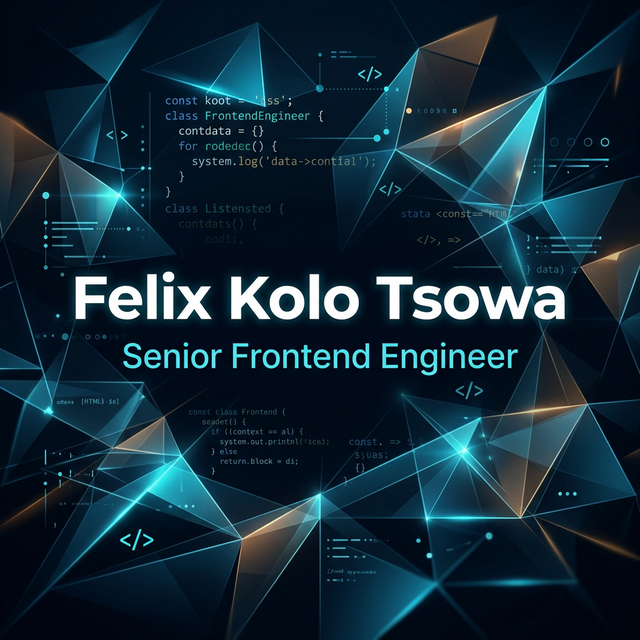
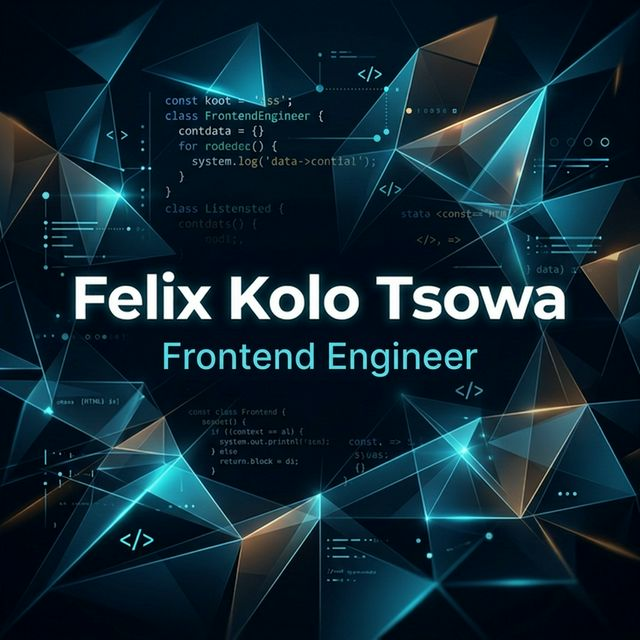
Update portfolio: Regenerated OG image, added Electron.js to skills, adjusted SEO metadata

diff --git a/public/index.html b/public/index.html
@@ -36,11 +36,11 @@
     <meta name="copyright" content="Felix Kolo Tsowa" />
     <meta
       name="description"
-      content="Felix Kolo Tsowa —  Frontend Engineer & Full-Stack Architect. 4+ years building high-performance, scalable web and mobile applications using React, Next.js, and React Native. Specialist in FinTech and SaaS."
+      content="Felix Kolo Tsowa — Frontend Engineer. 4+ years building high-performance, scalable web, desktop, and mobile applications using React, Next.js, Electron.js, and React Native. Specialist in FinTech and SaaS."
     />
     <meta
       name="keywords"
-      content="Felix Kolo Tsowa,  Frontend Engineer, Full Stack Architect, React Expert, Next.js Developer, React Native Specialist, TypeScript, Node.js, Web Performance, UI/UX, SaaS Architecture, FinTech Solutions"
+      content="Felix Kolo Tsowa, Frontend Engineer, React Expert, Next.js Developer, React Native Specialist, Electron.js, TypeScript, Node.js, Web Performance, UI/UX, SaaS Architecture, FinTech Solutions"
     />
     <link
       href="https://fonts.googleapis.com/css2?family=Plus+Jakarta+Sans:wght@300;400;500;600;700;800&display=swap"
@@ -82,11 +82,11 @@
     <meta property="og:url" content="https://fkt-portfolio.vercel.app/" />
     <meta
       property="og:title"
-      content="Felix Kolo Tsowa |  Frontend Engineer & Full-Stack Architect"
+      content="Felix Kolo Tsowa | Frontend Engineer"
     />
     <meta
       property="og:description"
-      content="Building high-performance digital ecosystems with React, Next.js, and React Native. Explore the portfolio of a  Frontend Architect."
+      content="Building high-performance digital ecosystems with React, Next.js, Electron.js, and React Native. Explore the portfolio of a Frontend Engineer."
     />
     <meta
       property="og:image"
@@ -102,11 +102,11 @@
     <meta name="twitter:url" content="https://fkt-portfolio.vercel.app/" />
     <meta
       name="twitter:title"
-      content="Felix Kolo Tsowa |  Frontend Architect"
+      content="Felix Kolo Tsowa | Frontend Engineer"
     />
     <meta
       name="twitter:description"
-      content=" Frontend Engineer architecting scalable web & mobile solutions globally."
+      content="Frontend Engineer architecting scalable web & mobile solutions globally."
     />
     <meta
       name="twitter:image"
@@ -118,11 +118,11 @@
     <!-- LinkedIn & Other Platforms -->
     <meta
       property="og:image:alt"
-      content="Felix Kolo Tsowa -  Software Engineer"
+      content="Felix Kolo Tsowa - Frontend Engineer"
     />
     <meta
       name="linkedin:title"
-      content="Felix Kolo Tsowa |  Frontend Engineer"
+      content="Felix Kolo Tsowa | Frontend Engineer"
     />
     <meta name="apple-mobile-web-app-title" content="Felix Tsowa" />
 
@@ -136,8 +136,8 @@
             "@id": "https://fkt-portfolio.vercel.app/#person",
             "name": "Felix Kolo Tsowa",
             "alternateName": ["Felix Tsowa", "Tsowa Kolo Felix"],
-            "jobTitle": " Frontend Engineer",
-            "description": " Frontend Engineer with 4+ years of experience building scalable web and mobile applications specializing in React, Next.js, and React Native.",
+            "jobTitle": "Frontend Engineer",
+            "description": "Frontend Engineer with 4+ years of experience building scalable web, desktop, and mobile applications specializing in React, Next.js, React Native, and Electron.js.",
             "image": {
               "@type": "ImageObject",
               "url": "https://fkt-portfolio.vercel.app/image.jpg",
@@ -172,7 +172,7 @@
             ],
             "worksFor": {
               "@type": "Organization",
-              "name": "Freelance  Software Engineer"
+              "name": "Freelance Frontend Engineer"
             },
             "alumniOf": {
               "@type": "EducationalOrganization",
@@ -202,7 +202,7 @@
                 "name": "Who is Felix Kolo Tsowa?",
                 "acceptedAnswer": {
                   "@type": "Answer",
-                  "text": "Felix Kolo Tsowa is a  Frontend Engineer and Full-Stack Developer with over 4 years of experience in building scalable web and mobile applications for global clients."
+                  "text": "Felix Kolo Tsowa is a Frontend Engineer with over 4 years of experience in building scalable web and mobile applications for global clients."
                 }
               },
               {
@@ -321,8 +321,8 @@
           },
           {
             "@type": "ProfessionalService",
-            "name": " Software Engineering Services",
-            "description": "Premium full-stack development, mobile app architecture, and technical consulting specializing in React, Next.js, and React Native.",
+            "name": "Frontend Engineering Services",
+            "description": "Premium frontend development, modern app architecture, and technical consulting specializing in React, Next.js, Electron.js, and React Native.",
             "url": "https://fkt-portfolio.vercel.app/#contact",
             "address": { "@id": "https://fkt-portfolio.vercel.app/#person" },
             "priceRange": "$$$",

diff --git a/src/components/Services.tsx b/src/components/Services.tsx
@@ -1,30 +1,54 @@
-import React from "react";
-import { FaSearch, FaRocket, FaCode, FaServer } from "react-icons/fa";
+import {
+  FaCode,
+  FaDesktop,
+  FaMobileAlt,
+  FaRocket,
+  FaSearch,
+  FaUniversalAccess,
+} from "react-icons/fa";
 
 const services = [
   {
-    title: "SEO Optimization",
-    description: "Professional-grade metadata, JSON-LD, and advanced search engine ranking strategies to make your brand stand out.",
-    icon: <FaSearch className="text-4xl text-blue-500" />,
-    color: "shadow-blue-500/50",
-  },
-  {
-    title: "Website Optimization",
-    description: "High-performance tuning, image optimization, and best-in-class loading speeds for a seamless user experience.",
-    icon: <FaRocket className="text-4xl text-orange-500" />,
-    color: "shadow-orange-500/50",
-  },
-  {
-    title: "Frontend Development",
-    description: "Modern, responsive, and stunning UI/UX designs using React, Next.js, and premium glassmorphic aesthetics.",
+    title: "Frontend Web Development",
+    description:
+      "Modern, responsive, and stunning UI/UX designs using React, Next.js, Vue, and premium glassmorphic aesthetics.",
     icon: <FaCode className="text-4xl text-purple-500" />,
     color: "shadow-purple-500/50",
   },
   {
-    title: "Backend Development",
-    description: "Scalable APIs, secure database management, and robust server-side logic to power your complex applications.",
-    icon: <FaServer className="text-4xl text-green-500" />,
-    color: "shadow-green-500/50",
+    title: "Desktop Application Development",
+    description:
+      "Cross-platform desktop applications for macOS, Windows, and Linux using Electron.js and other modern technologies.",
+    icon: <FaDesktop className="text-4xl text-blue-400" />,
+    color: "shadow-blue-400/50",
+  },
+  {
+    title: "Mobile App Development",
+    description:
+      "High-performance, native-feeling mobile applications for iOS and Android using React Native/Expo.",
+    icon: <FaMobileAlt className="text-4xl text-green-400" />,
+    color: "shadow-green-400/50",
+  },
+  {
+    title: "Performance & Website Optimization",
+    description:
+      "High-performance tuning, Core Web Vitals optimization, and best-in-class loading speeds for seamless user experiences.",
+    icon: <FaRocket className="text-4xl text-orange-500" />,
+    color: "shadow-orange-500/50",
+  },
+  {
+    title: "SEO Optimization & JSON-LD",
+    description:
+      "Professional-grade metadata, programmatic SEO, and advanced search engine ranking strategies.",
+    icon: <FaSearch className="text-4xl text-blue-600" />,
+    color: "shadow-blue-600/50",
+  },
+  {
+    title: "Web Accessibility (a11y)",
+    description:
+      "Ensuring applications meet WCAG standards, providing inclusive experiences for all users with screen readers and keyboard navigation.",
+    icon: <FaUniversalAccess className="text-4xl text-yellow-500" />,
+    color: "shadow-yellow-500/50",
   },
 ];
 
@@ -39,17 +63,21 @@ const Services = () => {
           <p className="text-4xl font-bold inline border-b-4 border-gray-500">
             Services
           </p>
-          <p className="py-6">These are the premium services I offer to help your business grow</p>
+          <p className="py-6">
+            These are the premium services I offer to help your business grow
+          </p>
         </div>
 
-        <div className="grid grid-cols-1 sm:grid-cols-2 lg:grid-cols-4 gap-8 px-4 sm:px-0">
+        <div className="grid grid-cols-1 sm:grid-cols-2 lg:grid-cols-3 gap-8 px-4 sm:px-0">
           {services.map(({ title, description, icon, color }, index) => (
             <div
               key={index}
               className={`flex flex-col items-center justify-between p-6 rounded-2xl bg-white/10 backdrop-blur-md border border-white/20 shadow-lg hover:scale-105 duration-300 ${color}`}
             >
               <div className="mb-4">{icon}</div>
-              <h3 className="text-xl font-semibold mb-2 text-center">{title}</h3>
+              <h3 className="text-xl font-semibold mb-2 text-center">
+                {title}
+              </h3>
               <p className="text-sm font-light text-center text-gray-300">
                 {description}
               </p>

diff --git a/src/components/About.tsx b/src/components/About.tsx
@@ -15,14 +15,14 @@ const About = () => {
       id: 1,
       title: "Frontend Development",
       description:
-        "Crafting responsive, pixel-perfect web interfaces using React, Next.js, and modern CSS frameworks like Tailwind.",
+        "Crafting responsive, pixel-perfect web interfaces using React, Next.js, Vue, and modern CSS frameworks like Tailwind.",
       icon: <FaCode className="text-3xl text-primary-500" />,
     },
     {
       id: 2,
       title: "Mobile App Development",
       description:
-        "Building cross-platform mobile applications for iOS and Android using React Native with native performance.",
+        "Building cross-platform mobile applications for iOS and Android using React Native, E with native performance.",
       icon: <FaMobileAlt className="text-3xl text-accent-500" />,
     },
     {
@@ -118,6 +118,7 @@ const About = () => {
                   <span className="text-accent-600 dark:text-accent-400">
                     Real Estate
                   </span>
+                  ,{" "}
                   <span className="text-accent-600 dark:text-accent-400">
                     Logistics
                   </span>
@@ -157,7 +158,7 @@ const About = () => {
               business challenges into sleek, high-performance software. My
               expertise spans across{" "}
               <span className="text-slate-900 dark:text-white font-bold underline decoration-primary-500 decoration-4 underline-offset-4">
-                React, Next.js, and React Native
+                React, Next.js, Vue, React Native/Expo, and Electron.js
               </span>
               , delivering scalable solutions that drive real business value.
             </motion.p>

diff --git a/src/AllPortfolioDetails/AllPortfolios.ts b/src/AllPortfolioDetails/AllPortfolios.ts
@@ -3,6 +3,8 @@ import Autozard from "../assets/portfolio/Autozard.png";
 import callingApp from "../assets/portfolio/calling-app.png";
 import contactlist from "../assets/portfolio/contactlist.png";
 import farmeasy from "../assets/portfolio/farmeasy.png";
+import fktCallsNew from "../assets/portfolio/fkt-calls.png";
+import fktCryptoPulse from "../assets/portfolio/fkt-cryto-pulse.png";
 import geek from "../assets/portfolio/geek.png";
 import houseacq from "../assets/portfolio/houseacq.png";
 import investyield from "../assets/portfolio/investyield.png";
@@ -18,8 +20,6 @@ import politicsthreadadmin from "../assets/portfolio/politicsthreaadmin.png";
 import politicthread from "../assets/portfolio/politicsthread.png";
 import risevest from "../assets/portfolio/risevest.png";
 import sugarcosmetic from "../assets/portfolio/sugarcosmetic.png";
-import fktCryptoPulse from "../assets/portfolio/fkt-cryto-pulse.png";
-import fktCallsNew from "../assets/portfolio/fkt-calls.png";
 // New portfolio images
 import studio187 from "../assets/portfolio/187studio.png";
 import starnetacademy from "../assets/portfolio/academy.png";
@@ -438,7 +438,7 @@ export const allPortfolios: PortfolioItem[] = [
   {
     id: 87,
     src: favour,
-    link: "https://favour.vercel.app/",
+    link: "http://favourolorunfemi-va-portfolio.vercel.app/",
     name: "Favour VA Portfolio",
     disc: "A professional portfolio for a Virtual Assistant. Highlights expertise in executive support, administrative management, and business operations to attract potential clients.",
     company: "Contract",

diff --git a/src/components/Experience.tsx b/src/components/Experience.tsx
@@ -14,12 +14,12 @@ interface ExperienceItem {
 const experiences: ExperienceItem[] = [
   {
     id: 1,
-    role: "Full-Stack Developer",
+    role: "Frontend Engineer",
     company: "Webloom",
     location: "Bangalore, India",
     period: "Recent",
     description:
-      "Architected and delivered scalable, high-performance web applications using ReactJS, NextJS, and modern state management. Integrated complex APIs and CMS solutions (Sanity, PayloadCMS) while optimizing frontend performance by 40%.",
+      "Architected and delivered scalable, high-performance frontend web applications using ReactJS, NextJS, and modern state management. Built seamless, pixel-perfect UI experiences and integrated complex APIs and CMS solutions (Sanity, PayloadCMS) while optimizing frontend performance by 40%.",
     products: [
       "DXB Finance",
       "AL Habtoor",

diff --git a/src/AllSkillsDetails/AllSkills.ts b/src/AllSkillsDetails/AllSkills.ts
@@ -584,4 +584,10 @@ export const allSkills: SkillItem[] = [
     title: "MOCHA",
     style: "shadow-amber-600",
   },
+  {
+    id: 72,
+    src: "https://upload.wikimedia.org/wikipedia/commons/9/91/Electron_Software_Framework_Logo.svg",
+    title: "ELECTRON.JS",
+    style: "shadow-blue-500",
+  },
 ];
